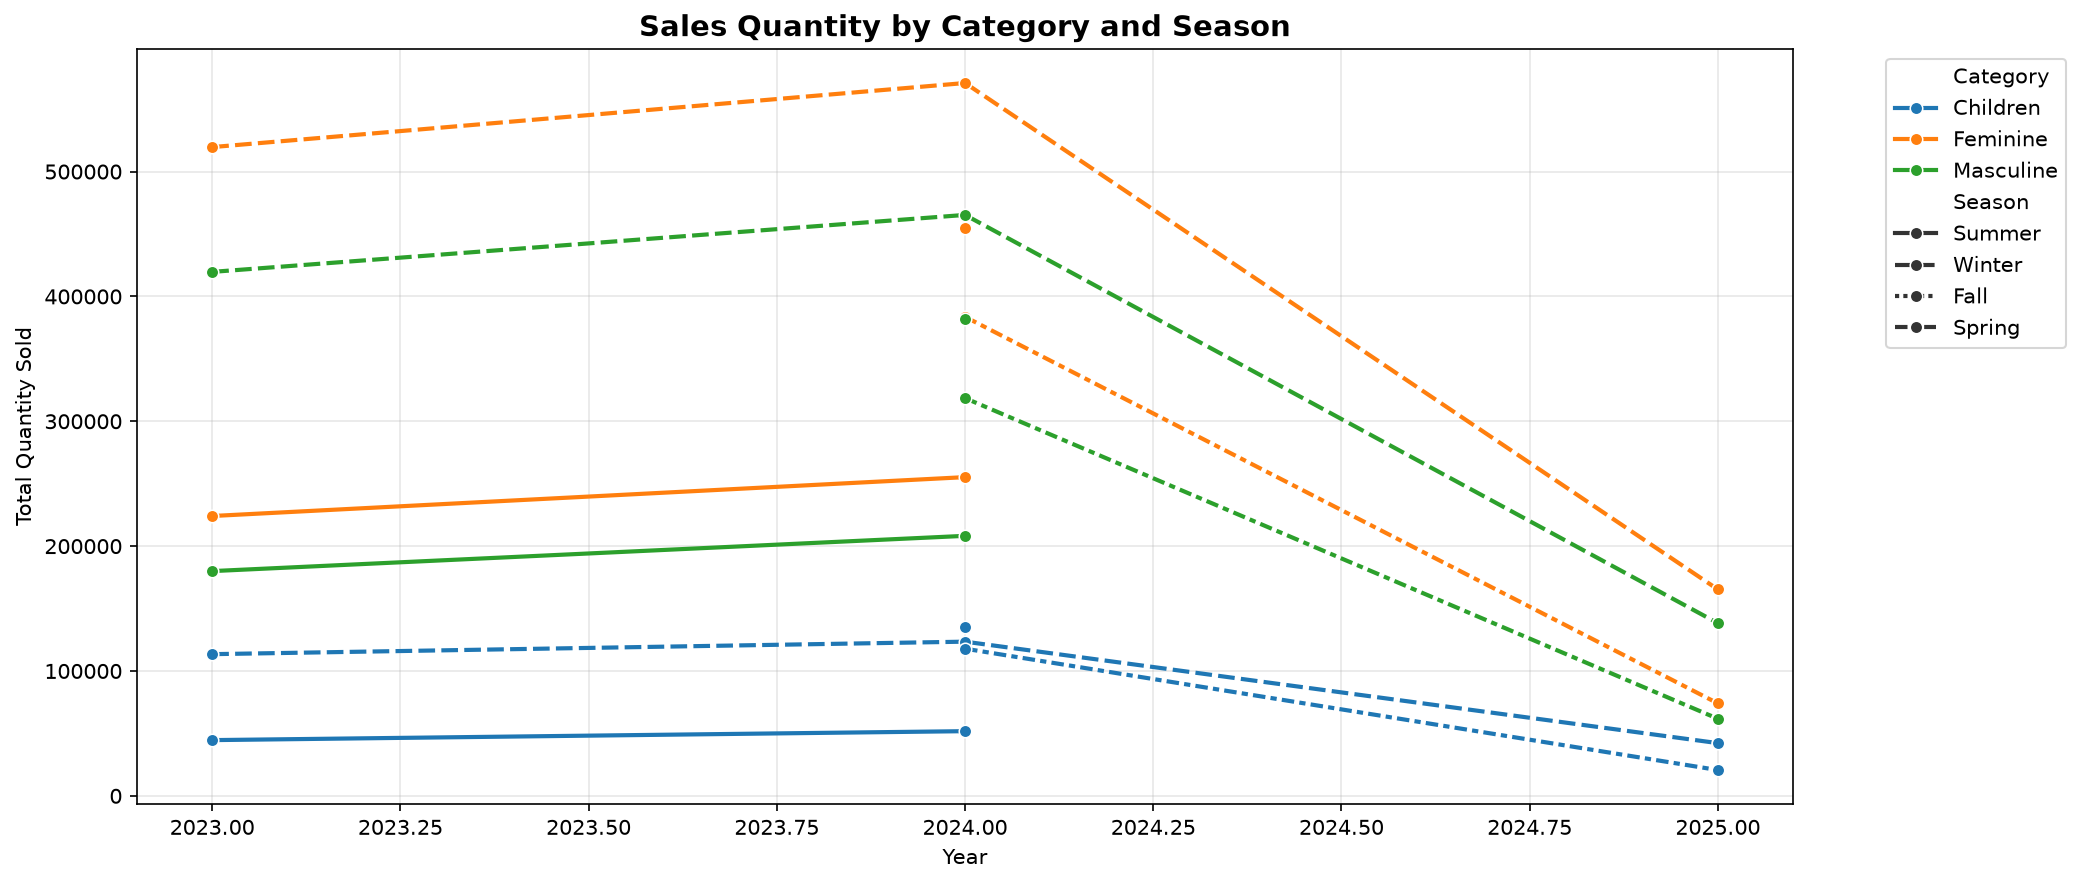
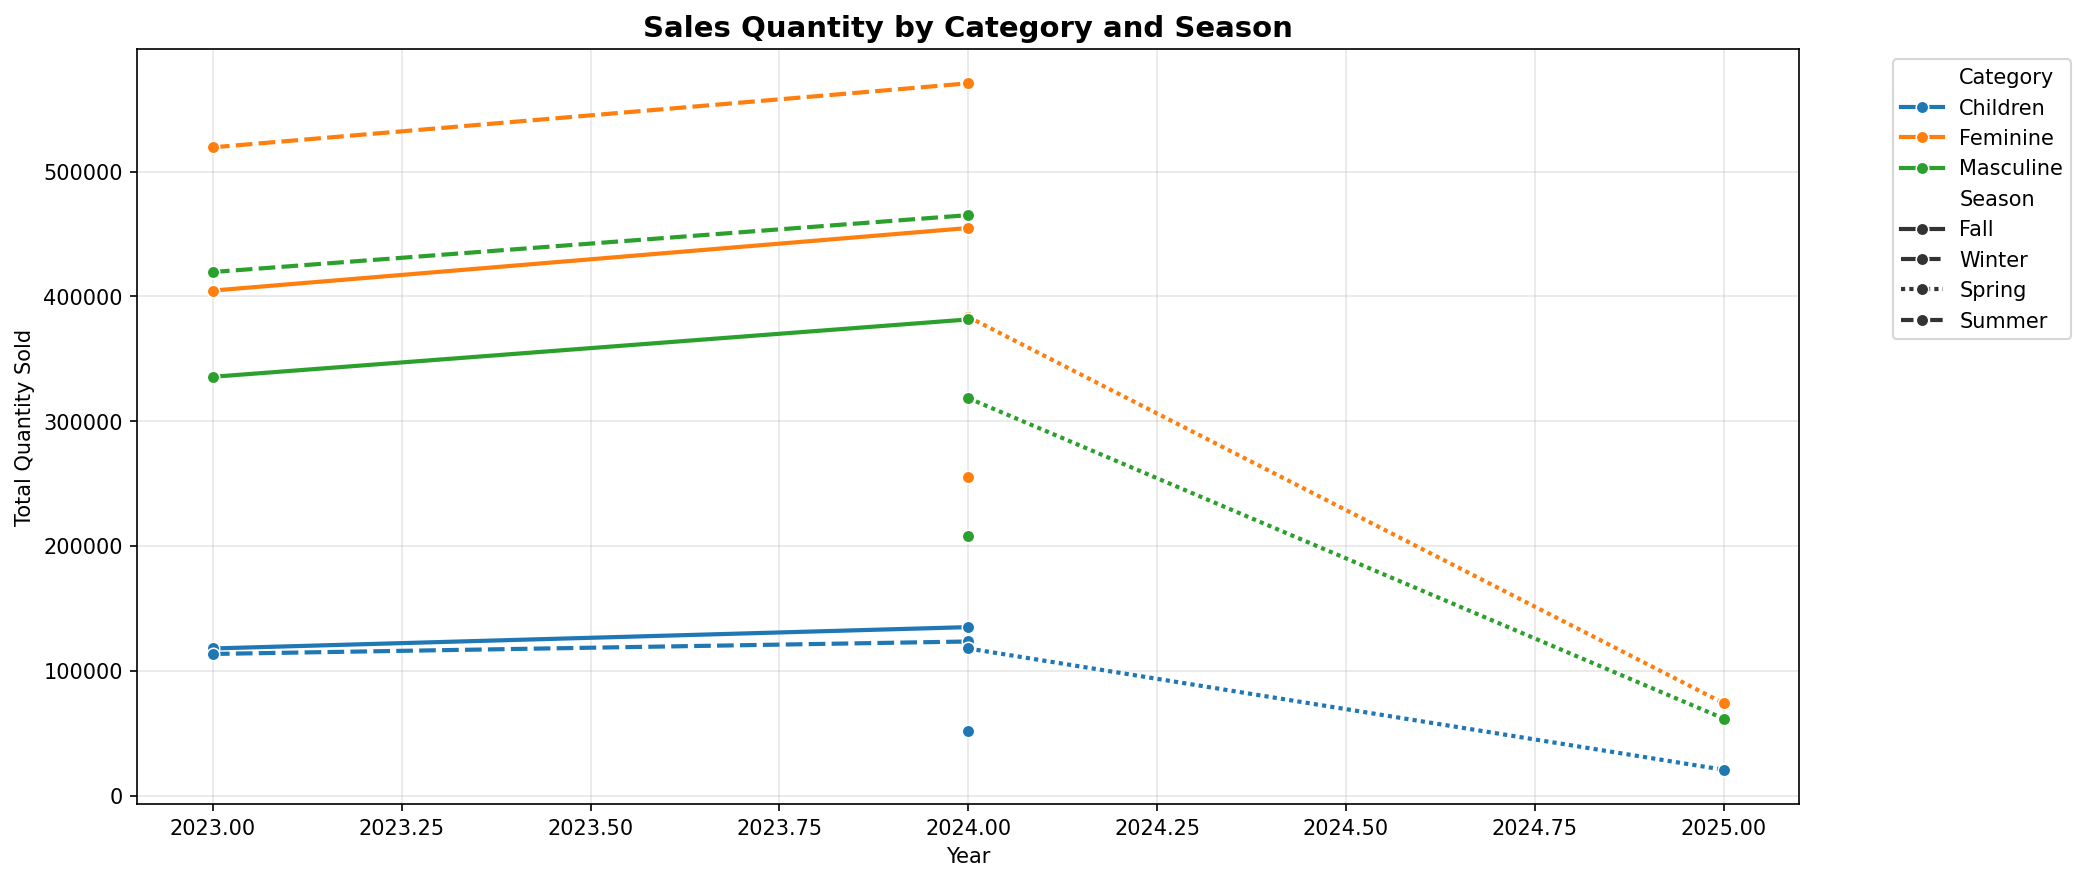
Update results and artifacts from full-dataset run

diff --git a/README.md b/README.md
@@ -36,34 +36,40 @@ This project builds a machine learning model to predict next season's best-selli
 
 ## Results
 
+Full dataset (6.4M transactions), 4262 aggregated season/segment rows, trained on 2023-Winter → 2024 and tested on the following 20% of seasons (2024 → 2025-Spring).
+
 | Model | R2 | RMSE | MAE |
 |-------|------|------|-----|
-| XGBoost | 0.416 | 1414.14 | 205.73 |
-| Random Forest | 0.279 | 1571.88 | 216.42 |
-| CatBoost | 0.221 | 1633.83 | 459.91 |
-| LightGBM | -0.166 | 1999.01 | 245.09 |
+| XGBoost | 0.924 | 1803.18 | 400.58 |
+| Random Forest | 0.894 | 2127.68 | 399.24 |
+| CatBoost | 0.890 | 2168.12 | 613.43 |
+| LightGBM | 0.887 | 2196.78 | 448.12 |
 
-**Best model:** XGBoost (R = 0.42, RMSE = 1414)
+**Best model:** XGBoost (R2 = 0.92, RMSE = 1803)
+
+After grid-search tuning (`fashion_trend_improved.py`), XGBoost reaches CV R2 = 0.942 with
+`learning_rate=0.05, max_depth=6, n_estimators=100` and test R2 = 0.916 — i.e. tuning does not
+beat the default configuration on the held-out future seasons.
 
 ## Key Features
 
 | Feature | Importance | Description |
 |---------|-----------|-------------|
 | `city_count` | 1st | Reach across cities |
-| `total_revenue_roll2` | 2nd | Revenue trend over last 2 seasons |
-| `total_quantity_roll2` | 3rd | Sales momentum |
-| `transaction_count_roll2` | 4th | Transaction frequency trend |
+| `transaction_count_roll2` | 2nd | Transaction frequency trend |
+| `total_revenue_roll2` | 3rd | Revenue trend over last 2 seasons |
+| `total_quantity_roll2` | 4th | Sales momentum |
 | `total_quantity_lag1` | 5th | Last season's sales volume |
 
 ## Next Season's Best-Sellers (Top 5)
 
-| Category | Season | Color | Gender | AgeGroup | Predicted |
-|----------|--------|-------|--------|----------|-----------|
-| Feminine | Spring | WHITE | F | 65+ | 27,604 |
-| Masculine | Spring | Unknown | D | 26-35 | 26,988 |
-| Feminine | Spring | TURQUOISE | F | 26-35 | 24,993 |
-| Feminine | Spring | TURQUOISE | F | 19-25 | 24,978 |
-| Feminine | Winter | TURQUOISE | D | 36-50 | 22,071 |
+| Category | Season | Color | Gender | AgeGroup | Predicted | Actual |
+|----------|--------|-------|--------|----------|-----------|--------|
+| Feminine | Winter | Unknown | F | 36-50 | 67,715 | 75,423 |
+| Feminine | Winter | Unknown | F | 19-25 | 67,151 | 84,760 |
+| Masculine | Winter | Unknown | F | 19-25 | 59,905 | 66,484 |
+| Feminine | Winter | Unknown | F | 26-35 | 59,042 | 67,276 |
+| Masculine | Winter | Unknown | F | 36-50 | 54,815 | 49,587 |
 
 ## Files
 
